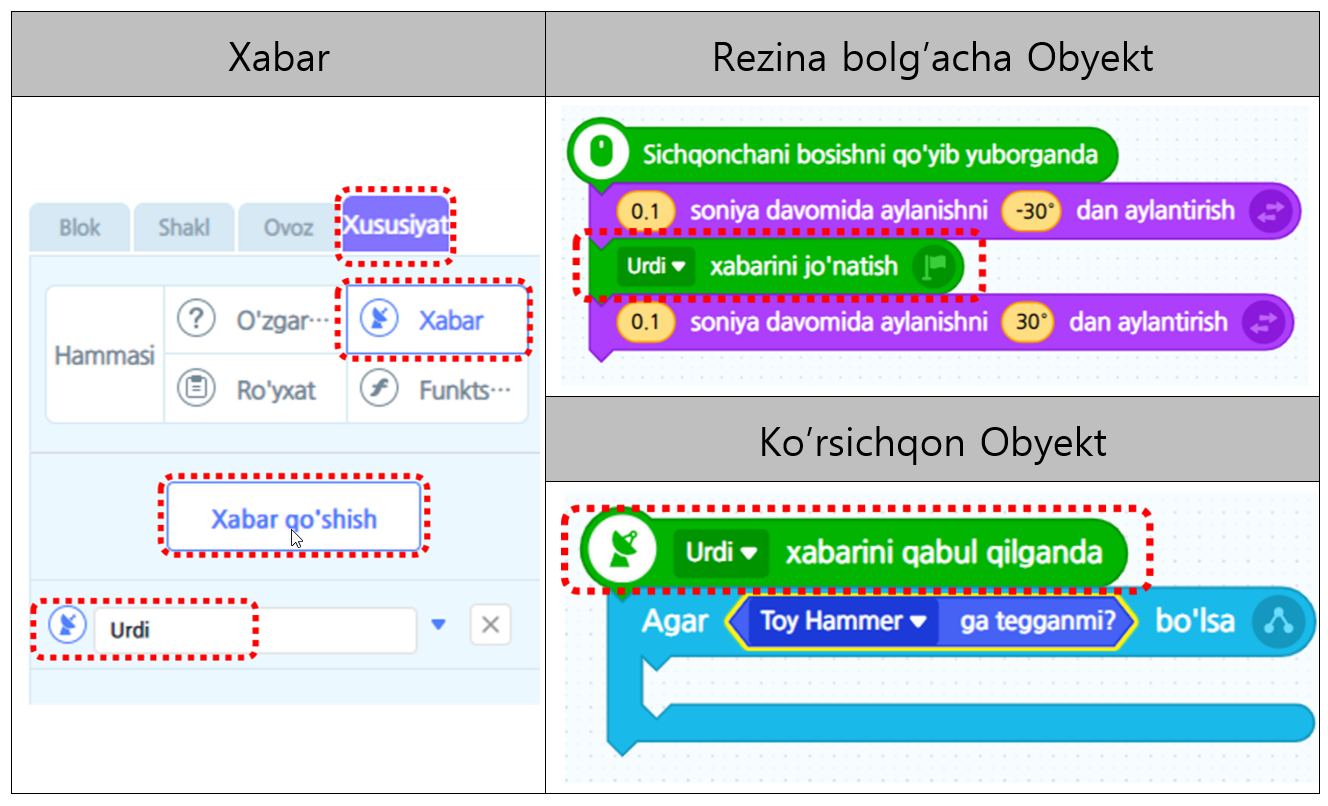
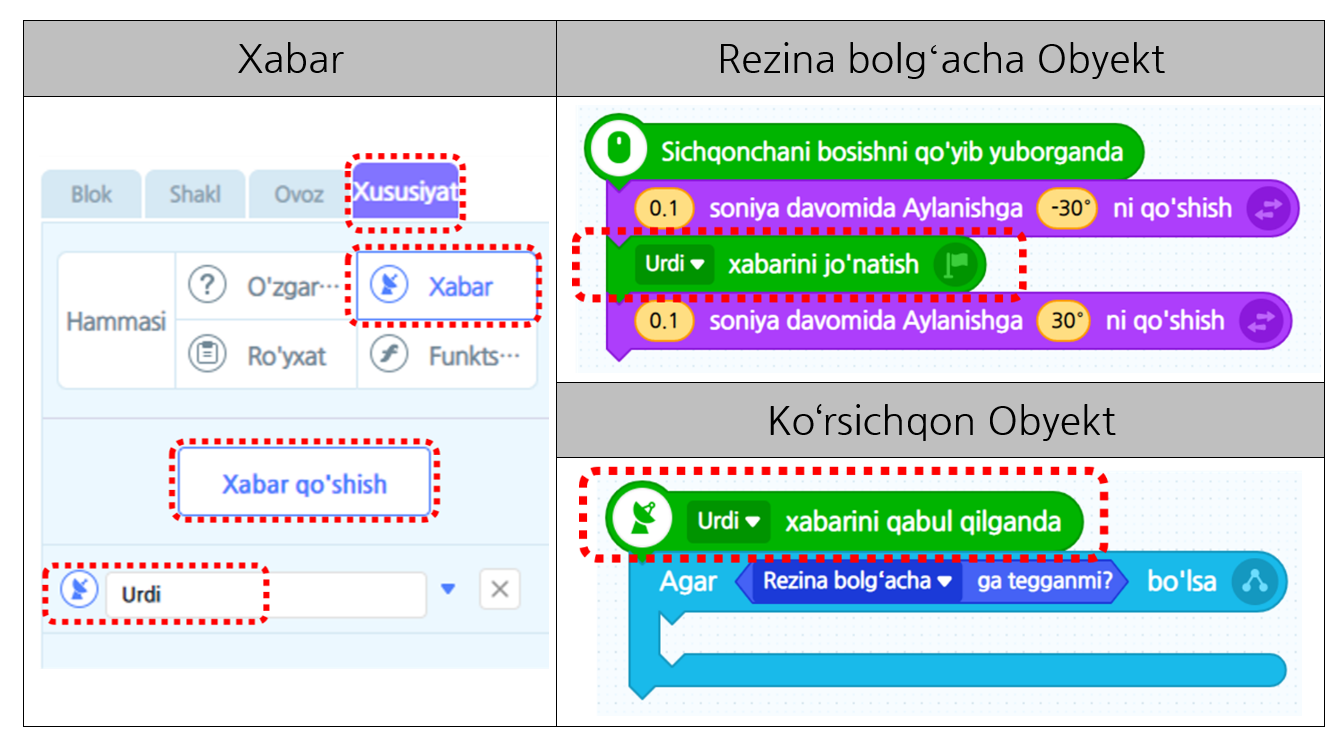
GitBook: [master] 2 pages and 5 assets modified

diff --git a/3-misol_shart.md b/3-misol_shart.md
@@ -4,7 +4,7 @@ description: Changyutgich roboti to’siqni uchratsa nima bo’ladi? - Shart
 
 # 3-misol\_"Shart"
 
-Changyutgich robotini ko'rganmisiz? Chang yutgich roboti oldinga qarab harakatlanayotganida to'siqni uchratsa, harakatini o'zgartiradi. Ushbu darsda _"Tanlash"_  tushunchasidan foydalanib, changyutgich robotiga xonaning burchaklarini tozalashda yordam berib ko’ramiz.
+Changyutgich robotini ko'rganmisiz? Chang yutgich roboti oldinga qarab harakatlanayotganida to'siqni uchratsa, harakatini o'zgartiradi. Ushbu darsda _**"Shart"**_  tushunchasidan foydalanib, changyutgich robotiga xonaning burchaklarini tozalashda yordam berib ko’ramiz.
 
 ### 1. Ekranda "Yog'och pol" orqa foni va "Chang yutgich robot" obyektini qo’yamiz.
 
@@ -22,7 +22,7 @@ Changyutgich robotini ko'rganmisiz? Chang yutgich roboti oldinga qarab harakatla
 
 ![](.gitbook/assets/003_004.png)
 
-### 5. Changyutgich robot poldan chiqib ketib qayergadir ketayapti. Changyutgich robot poldan chiqib ketmasligi uchun nima qilishimiz kerak? Ha, to'g’ri shart qo’yishimiz kerak. Qizil chiziqda aks etilgan sirtqi qism – bu devor. Shunaqa qilib changyutgich robot devorga teggan paytida poldan chiqib ketmaydigan qilib kodni tuzib ko’ramiz. \[Oqim\] kategoriyasidagi “Agar – bo’lsa” bloki bilan \[Qaror\] kategoriyasidagi “— ga tegganmi?” blokini ketma-ket qo’yamiz. Shu joyda biroz to’xtang! Changyutgich robot pol to’liq tozalangunicha uzluksiz harakatlanishi kerak. Shuning uchun “Davomiy takrorlash”ni blokning ichiga kirgizamiz. safiga qo’shamiz. 
+### 5. Changyutgich robot poldan chiqib ketib qayergadir ketayapti. Changyutgich robot poldan chiqib ketmasligi uchun nima qilishimiz kerak? Ha, to'g’ri shart qo’yishimiz kerak. Qizil chiziqda aks etilgan sirtqi qism – bu devor. Shunaqa qilib changyutgich robot devorga teggan paytida poldan chiqib ketmaydigan qilib kodni tuzib ko’ramiz. \[Oqim\] kategoriyasidagi “Agar – bo’lsa” bloki bilan \[Qaror\] kategoriyasidagi “— ga tegganmi?” blokini ketma-ket qo’yamiz. Shu joyda biroz to’xtang! Changyutgich robot pol to’liq tozalangunicha uzluksiz harakatlanishi kerak. Shuning uchun “Davomiy takrorlash”ni blokning safiga qo'shamiz.
 
 ※ Foydali maslahat: “Agar – bo’lsa” blokiga shart blokini kirgizgan paytingizda blokning chap uchini birlashtirsangiz blok oson yig’iladi.
 

diff --git a/2-misol_takrorlash.md b/2-misol_takrorlash.md
@@ -12,7 +12,7 @@ O'tgan darsda _"Ketma-ketlik'"_haqida o'rgangan bo'lsangiz, ushbu darsda _"**Tak
 
 ### 2. Gulni yasash uchun gul bargining shakli bir xil bo'lib, lekin burchaklari\(gradusi\) farq qilishi kerak.  
 
-### Shunga asoslanib, \[Cho'tka\] kategoriyasidagi "Pechat qo'yish" bloki bilan \[Harakat\] kategoriyasidagi "Aylanishini - dan  aylantirish" blokini olib kelib, ketma-ket qo’yıng.
+### Shunga asoslanib, \[Cho'tka\] kategoriyasidagi "Pechat qo'yish" bloki bilan \[Harakat\] kategoriyasidagi "Aylanishga - ni qo'yish" blokini olib kelib, ketma-ket qo’yıng.
 
 ![](.gitbook/assets/002_002.png)
 
